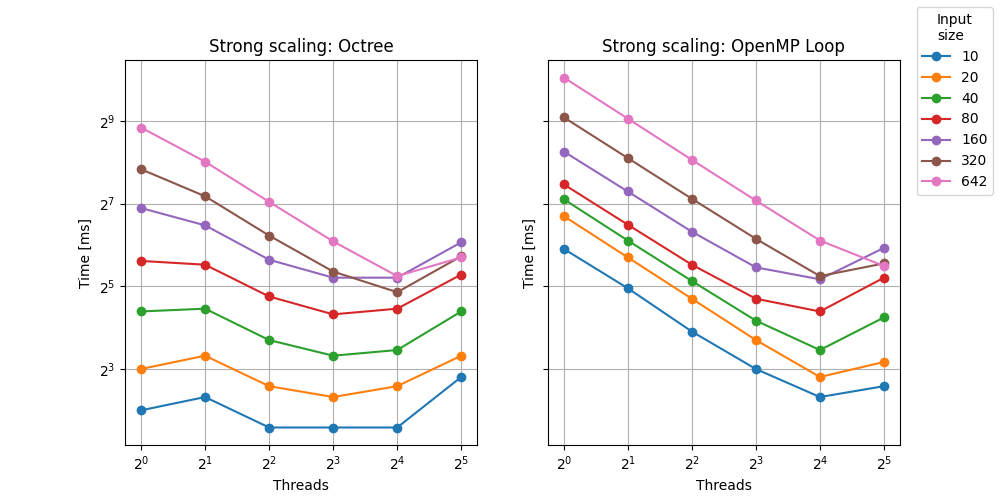
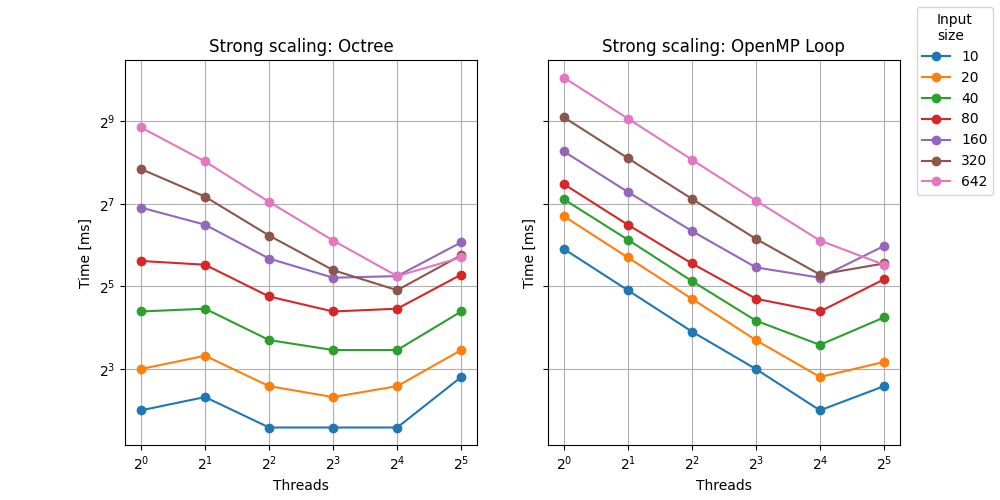
.

diff --git a/parallel_builder/tree_mesh_builder.cpp b/parallel_builder/tree_mesh_builder.cpp
@@ -15,7 +15,7 @@
 #include "tree_mesh_builder.h"
 
 #undef DEBUG
-#define OPTIMIZATION 2 // Why 1 is not working?
+#define OPTIMIZATION 1 // Why 1 is not working?
 
 TreeMeshBuilder::TreeMeshBuilder(unsigned gridEdgeSize)
         : BaseMeshBuilder(gridEdgeSize, "Octree") {
@@ -107,15 +107,9 @@ auto TreeMeshBuilder::decomposeCube(const Vec3_t<float> &cubeOffset,
         if (isSurfaceInBlock(float(nextGridSize), nextCubeOffset, field)) { return 0; }
         if (nextGridSize <= GRID_CUT_OFF) { return buildCube(nextCubeOffset, field); }
 #endif
+
 #ifndef DEBUG
-#if OPTIMIZATION == 1
 #pragma omp task default(none) firstprivate(i, nextCubeOffset, nextGridSize) shared(cubeOffset, field, totalTriangles)
-#endif
-#if OPTIMIZATION == 2
-        //#pragma omp task default(none) firstprivate(i)  shared(cubeOffset, nextGridSize, field, totalTriangles)
-        //#pragma omp task default(none) firstprivate(i) shared(cubeOffset, nextGridSize, field, totalTriangles, nextCubeOffset)
-#pragma omp task default(none) firstprivate(i, nextCubeOffset, nextGridSize) shared(cubeOffset, field, totalTriangles)
-#endif
 #endif
         {
             const unsigned int trianglesCount = decomposeCube(nextCubeOffset, nextGridSize, field);
@@ -144,8 +138,8 @@ auto TreeMeshBuilder::isSurfaceInBlock(
     );
     auto block = evaluateFieldAt(midPoint, field);
     auto circle = mIsoLevel + sqrtf(3.F) / 2.F * resEdgeLength;
-    bool isBlockEmpty = block > circle;
-    return isBlockEmpty;
+    bool isInBlock = block > circle;
+    return isInBlock;
 }
 
 
